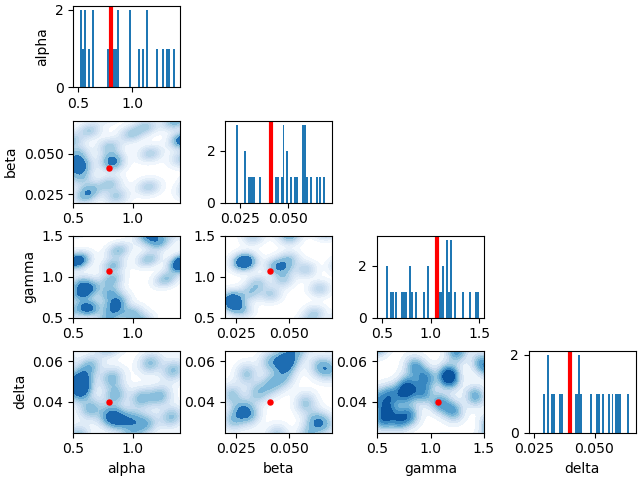
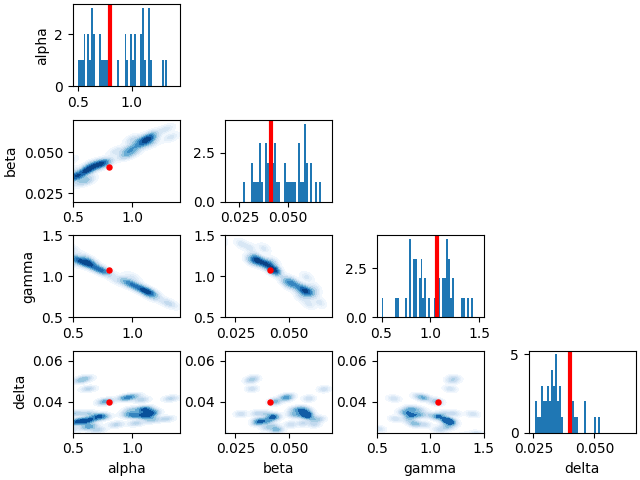
generic commit

diff --git a/scripts/transport/lk_sim.py b/scripts/transport/lk_sim.py
@@ -44,7 +44,7 @@ def derivative(X, t, alpha, beta, gamma, delta):
     return np.array([dotx, doty])
 
 
-def run_ode(params, T = 10, n = 10, X0 = np.asarray([30,1]), obs_std = np.sqrt(1e-5)):
+def run_ode(params, T = 10, n = 10, X0 = np.asarray([30,1]), obs_std = np.sqrt(1e-1)):
     t_vec = np.linspace(0,T, num = n)
     alpha, beta, delta, gamma = params
     res = integrate.odeint(derivative, X0, t_vec, args=(alpha, beta, delta, gamma))[1:]
